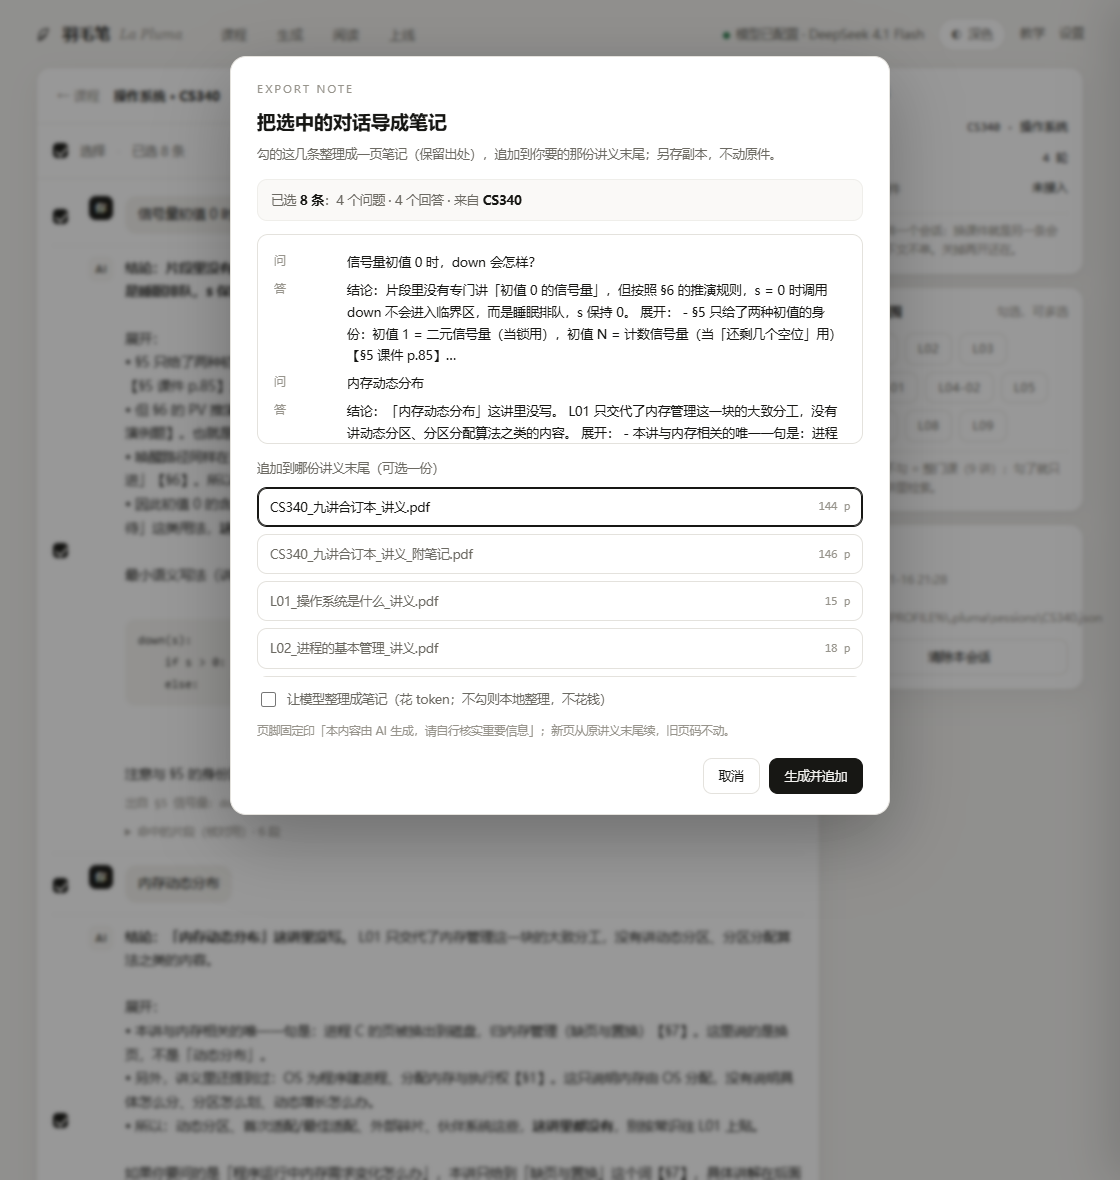
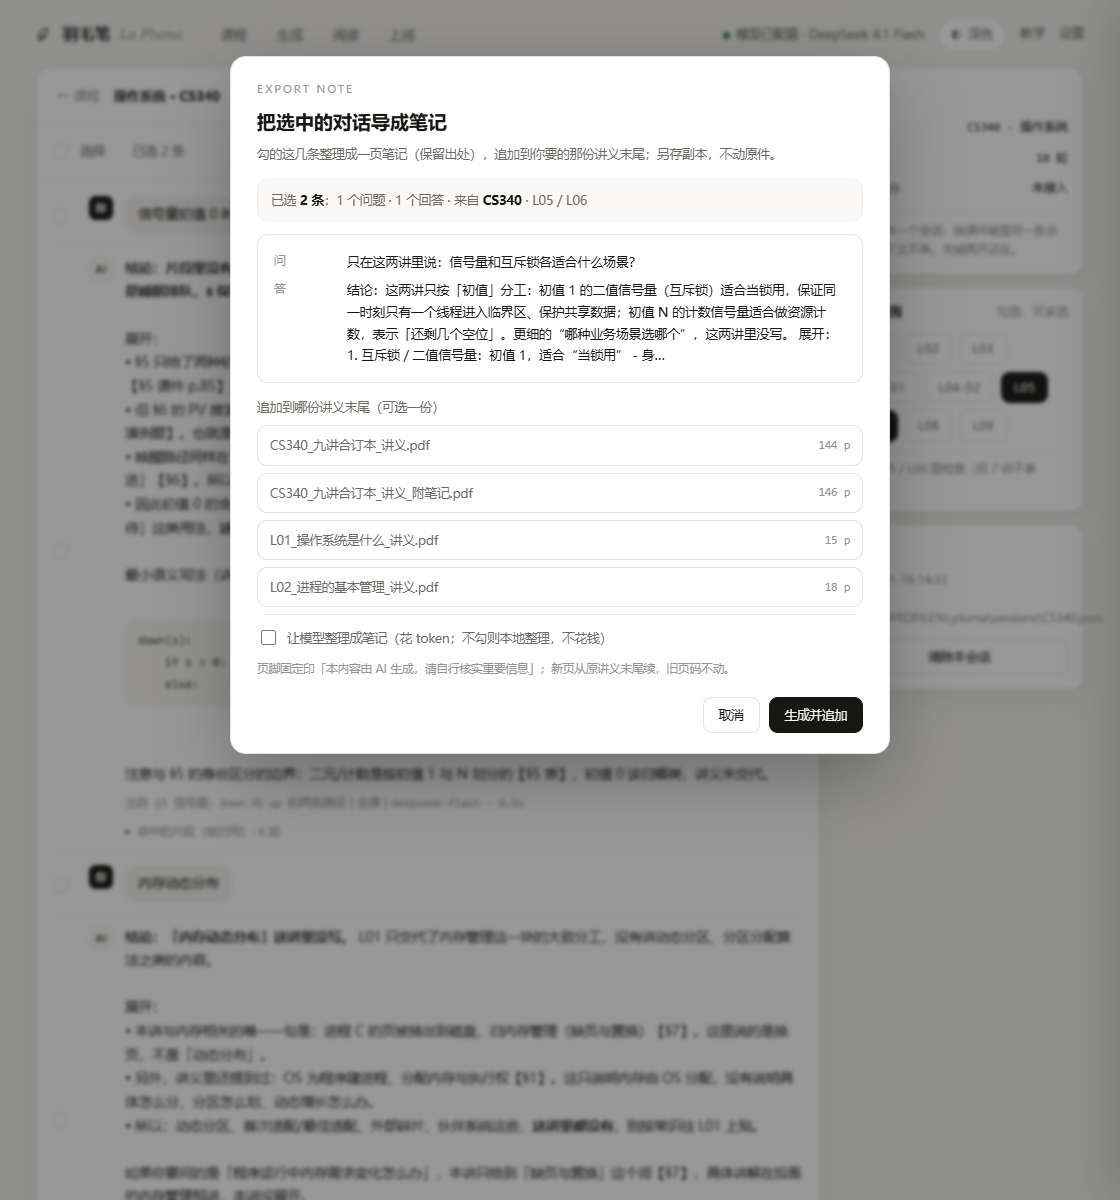
fix: 冒烟两轮修四处（笔记按文档存 / 多选讲次 scope / 导出默认目标 / plain 同名报错）

diff --git a/ui/index.html b/ui/index.html
@@ -861,7 +861,14 @@ $('#btnNote').onclick = () => {
   const items = idx.map(i=>({role:CHAT.messages[i].role==='user'?'user':'a',
     text:CHAT.messages[i].text, meta:CHAT.messages[i].meta||CHAT.messages[i].cite||''}));
   const files = CHAT.files||[];
-  EXPORT.target = files.length ? files[0].rel : '';
+  // 默认追加到「选中对话命中讲次」的那份讲义；否则到第一份不带 _附笔记 的；再不行才用第 0 份
+  // 注意：局部变量不能叫 plain —— 模块里 plain() 是去 Markdown 的单行文本函数，
+  // 同名后在下面 plain(it.text) 会报「plain is not a function」，弹窗根本不会出（冒烟测到过）。
+  const wantLes = new Set(idx.flatMap(i => (CHAT.messages[i].refs||[]).map(r=>r.lesson).filter(Boolean)));
+  const plainFiles = files.filter(f => !f.name.includes('附笔记'));
+  const pick = plainFiles.find(f => [...wantLes].some(l => f.name.startsWith(l)))
+            || plainFiles[0] || files[0] || null;
+  EXPORT.target = pick ? pick.rel : '';
   const rows = items.map(it=>`<div class="row"><span>${it.role==='user'?'问':'答'}</span>
       <div>${esc(plain(it.text).slice(0,150))}${(it.text||'').length>150?'…':''}</div></div>`).join('');
   $('#dlg').innerHTML = `
@@ -1040,7 +1047,8 @@ document.addEventListener('keydown', e=>{
 
 async function loadNotes(){
   try{
-    const j = await (await fetch('/api/notes?code='+encodeURIComponent(RD.code))).json();
+    const j = await (await fetch('/api/notes?code='+encodeURIComponent(RD.code)
+      + '&doc=' + encodeURIComponent(RD.rel))).json();
     RD.notes = j.notes || [];
   }catch(e){ RD.notes = []; }
   renderNotes();
@@ -1062,7 +1070,7 @@ function renderNotes(){
     el.onclick = async e => {
       e.stopPropagation();
       const j = await (await fetch('/api/notes',{method:'POST',headers:{'Content-Type':'application/json'},
-        body:JSON.stringify({code:RD.code, action:'del', index:+el.dataset.del})})).json();
+        body:JSON.stringify({code:RD.code, doc:RD.rel, action:'del', index:+el.dataset.del})})).json();
       if(j.ok){ RD.notes = j.notes; renderNotes(); toast('已删除'); }
     };
   });
@@ -1072,7 +1080,7 @@ $('#nAdd').onclick = async () => {
   if(!v){ toast('先写一句再记'); ta.focus(); return; }
   if(!RD.doc){ toast('先打开一份讲义'); return; }
   const j = await (await fetch('/api/notes',{method:'POST',headers:{'Content-Type':'application/json'},
-    body:JSON.stringify({code:RD.code, action:'add', note:{p:RD.page, text:v}})})).json();
+    body:JSON.stringify({code:RD.code, doc:RD.rel, action:'add', note:{p:RD.page, text:v}})})).json();
   if(j.ok){ RD.notes = j.notes; ta.value=''; renderNotes(); toast('已记在 p.'+RD.page); }
   else toast('没记上：'+(j.error||''));
 };

diff --git a/ui/server.py b/ui/server.py
@@ -251,18 +251,30 @@ def safe_join(*parts):
     return p
 
 
-# ---------- 笔记（本机落盘，一个课件一个文件）----------
-def load_notes(code: str) -> dict:
-    d = _read_json(os.path.join(NOTES_DIR, _safe_code(code) + ".json"), {})
+# ---------- 笔记（按「课程 + 具体文档」落盘）----------
+# 2026-11-16 冒烟真撞到：原来只按课程存，结果打开 L02 能看到挂在 L05 的笔记，
+# 页码对不上、导出的附页也会跟错文档。现在一格文档一个文件：
+#   %USERPROFILE%\.pluma\notes\<课程>\<文档名>.json；没传 doc 时才退回按课程存（兼容旧调用）。
+def _notes_path(code: str, doc: str = "") -> str:
+    base = os.path.join(NOTES_DIR, _safe_code(code))
+    if doc:
+        return os.path.join(base, _safe_code(os.path.splitext(os.path.basename(doc))[0]) + ".json")
+    return base + ".json"
+
+
+def load_notes(code: str, doc: str = "") -> dict:
+    p = _notes_path(code, doc)
+    d = _read_json(p, {})
     notes = d.get("notes") if isinstance(d, dict) else None
-    return {"code": code, "notes": notes if isinstance(notes, list) else []}
+    return {"code": code, "doc": doc, "notes": notes if isinstance(notes, list) else []}
 
 
-def save_notes(code: str, notes: list) -> int:
-    os.makedirs(NOTES_DIR, exist_ok=True)
+def save_notes(code: str, notes: list, doc: str = "") -> int:
+    p = _notes_path(code, doc)
+    os.makedirs(os.path.dirname(p), exist_ok=True)
     keep = [n for n in notes if isinstance(n, dict) and str(n.get("text") or "").strip()][-500:]
-    _write_json(os.path.join(NOTES_DIR, _safe_code(code) + ".json"),
-                {"code": code, "updated": time.strftime("%Y-%m-%d %H:%M"), "notes": keep})
+    _write_json(p, {"code": code, "doc": doc,
+                    "updated": time.strftime("%Y-%m-%d %H:%M"), "notes": keep})
     return len(keep)
 
 
@@ -484,7 +496,8 @@ class Handler(BaseHTTPRequestHandler):
             if u.path == "/api/host":
                 return self._json(dict(ok=True, **host_state()))
             if u.path == "/api/notes":
-                return self._json(dict(ok=True, **load_notes(q.get("code", ["CS340"])[0])))
+                return self._json(dict(ok=True, **load_notes(q.get("code", ["CS340"])[0],
+                                                             q.get("doc", [""])[0])))
             if u.path == "/favicon.ico":
                 self.send_response(204)
                 self.send_header("Cache-Control", "max-age=86400")
@@ -547,7 +560,8 @@ class Handler(BaseHTTPRequestHandler):
                 return self._json({"ok": False, "need_access": True, "error": "需要访问码"}, 401)
             if u.path == "/api/notes":
                 code = str(body.get("code") or "CS340")
-                cur = load_notes(code)["notes"]
+                doc = str(body.get("doc") or "")
+                cur = load_notes(code, doc)["notes"]
                 act = str(body.get("action") or "add")
                 if act == "add":
                     note = body.get("note") or {}
@@ -566,7 +580,7 @@ class Handler(BaseHTTPRequestHandler):
                     cur = []
                 else:
                     return self._json({"ok": False, "error": "未知动作：%s" % act}, 400)
-                n = save_notes(code, cur)
+                n = save_notes(code, cur, doc)
                 return self._json({"ok": True, "notes": cur, "count": n})
             if u.path == "/api/note/export":
                 # 07：选中对话 / 侧栏笔记 → 整理成笔记页 → 追加到指定 PDF 末尾（另存副本）
@@ -750,7 +764,7 @@ class Handler(BaseHTTPRequestHandler):
                 if api_client is None or not cfg["api_key"]:
                     return self._json({"ok": False, "need_key": True, "refs": refs,
                                        "error": "没配置 API 钥匙，不能真问。已检索到的片段在下面可以直接看。"})
-                bare = {"code": code, "no": no or "全课",
+                bare = {"code": code, "no": no or ("/".join(only) if only else "全课"),
                         "zh": "（跨讲检索）" if not no else str((first or {}).get("zh", ""))}
                 msgs = mod.build_prompt(bare, question, picked)
                 hist = [{"role": ("user" if m.get("role") == "user" else "assistant"),
@@ -766,7 +780,8 @@ class Handler(BaseHTTPRequestHandler):
                 log_usage(out.get("model", cfg["model"]), out.get("usage", {}))
                 return self._json({"ok": True, "answer": out["text"], "model": out["model"],
                                    "seconds": round(time.time() - t0, 1), "refs": refs,
-                                   "scope": {"course": code, "lesson": no or "全课",
+                                   "scope": {"course": code,
+                                             "lesson": no or ("/".join(only) if only else "全课"),
                                              "cross": allow_cross}})
             return self._json({"ok": False, "error": "无此路由"}, 404)
         except subprocess.TimeoutExpired:

diff --git a/CHANGELOG.md b/CHANGELOG.md
@@ -11,6 +11,11 @@
 - **09 双主题下的页面**：这批讲义 PDF 本身就是深底白字，所以**浅色主题下做像素反相**（黑底→白底、白字→黑字），深色主题原样显示；反相后用 pdf.js 的 `getOperatorList` 算图像算子包围盒，把**位图区域回贴原色**（图不反相）
 - **10 主机上线 + 8 位访问码**：`ui\server.py --lan`（或 `.\一键启动.ps1 -Lan`）监听 0.0.0.0，启动时生成 8 位数字码并打印局域网地址；非本机请求一律拦到 `ui\access.html`，输对给 12 小时 cookie。实测：未输码 API 401、错码 403、对码 200 且能进真界面
 - 新增 `ui\access.html`（平板端输码页）
+- 修实（冒烟第二轮）：**笔记改成按「课程 + 文档」存**（`~/.pluma/notes/<课程>/<文档>.json`）—— 原来只按课程存，打开 L02 能看到挂在 L05 的笔记，页码对不上
+- 修实（冒烟）：勾了多个讲次时 `scope` 与提示词里的范围仍写「全课」—— 现在写 `L05/L06`，回执与真正检索的范围一致
+- 修实（冒烟）：07 的默认追加目标按「选中对话命中的讲次」挑讲义（原来固定第一份 = 合订本，问 L05 却追到合订本）
+- 修实（冒烟）：局部变量 `plain` 与模块里的 `plain()` 同名 → 点「生成笔记」直接报错、弹窗不出现（已改名 `plainFiles`）
+- 冒烟记录：两轮真模型共 16 次调用 / 估算 ¥0.037；API 20 项 + 界面 11 项全过
 - 修实：中文文件名进 `Content-Disposition` 时 http.server 按 latin-1 报错，同一个 socket 上先写 200 再写 500，pdf.js 只看到 `Failed to fetch` —— 改成 ASCII 回退 + RFC 5987 `filename*` 双写
 - 修实：同一端口能被两个进程同时绑住（Windows），旧进程偷偷应答，改完代码看着「没生效」—— 启动前先探端口，占用就明说并给换端口命令
 - 修实：`animation-fill-mode:both` 会让慢帧/无头截图里的消息停在 0% 透明度，看着像空白页 —— 去掉 both
